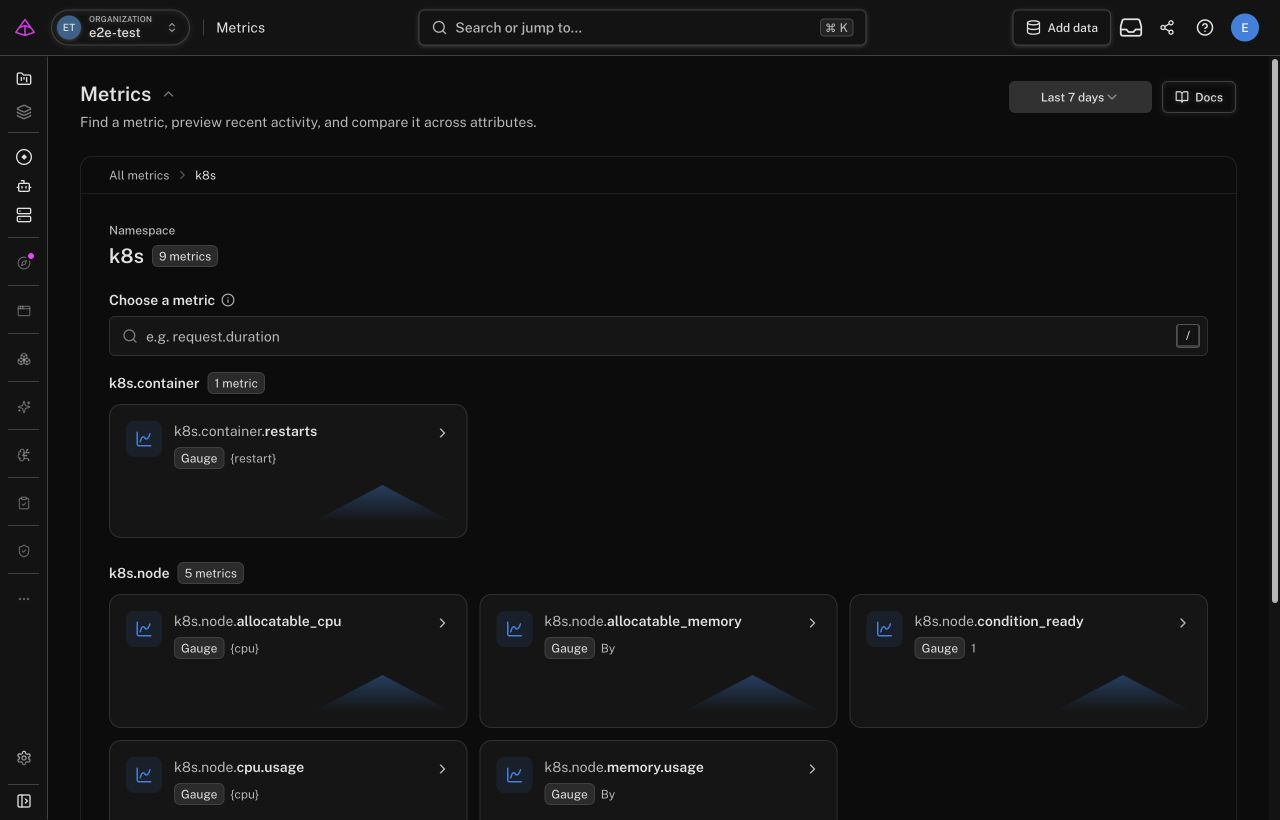
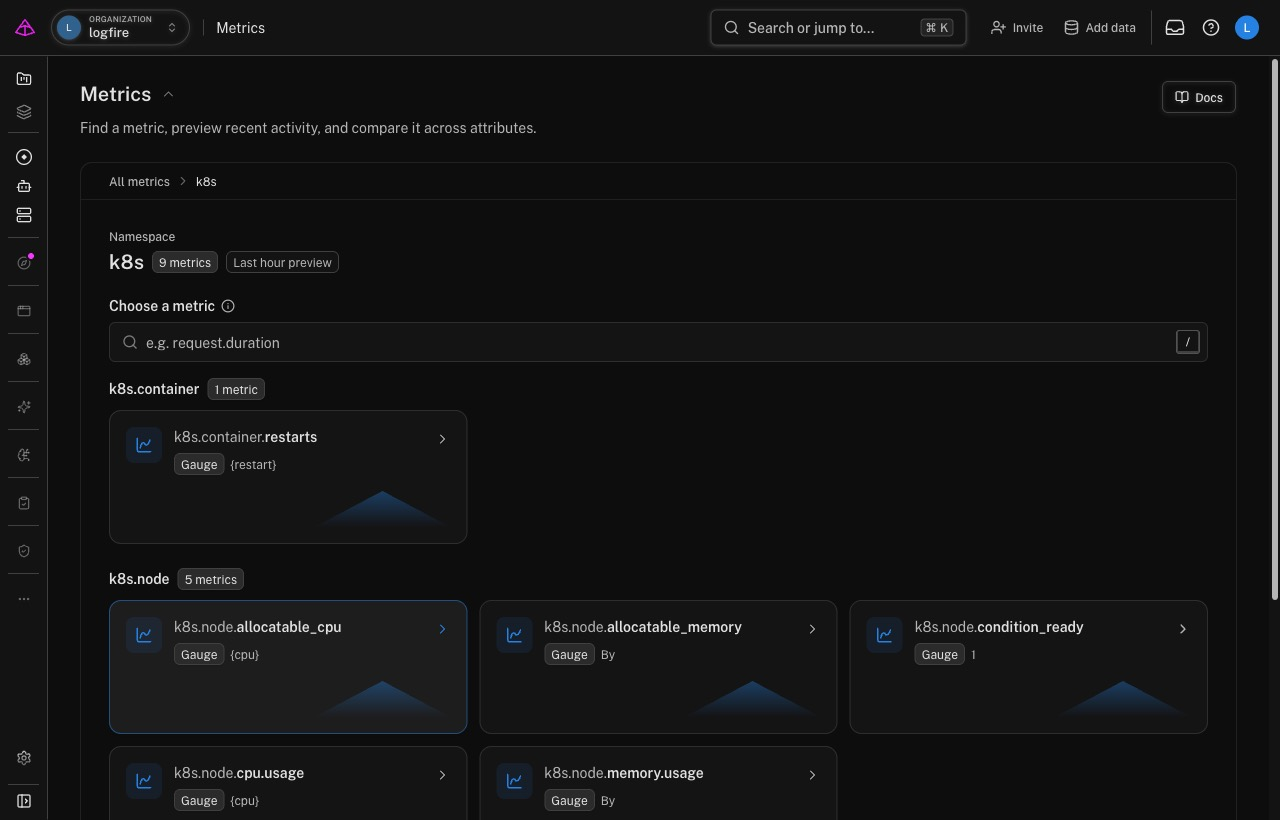
Document Metrics Explorer preview range

diff --git a/docs/guides/web-ui/metrics-explorer.md b/docs/guides/web-ui/metrics-explorer.md
@@ -6,7 +6,7 @@ description: "Use Logfire's Metrics Explorer to search OpenTelemetry metrics, pr
 
 Find and compare the metrics your project receives without writing SQL. A **metric** is a number tracked over time, like requests per second or CPU load. Use the **Metrics Explorer** to search metric names, preview recent activity, and compare values across attributes such as `service.name` or `k8s.node.name`.
 
-Open the <OpenInLogfire path="metrics" variant="inline" label="Metrics Explorer" /> by clicking **Metrics** in the project sidebar. The selected time range controls the metrics, previews, and attributes the page shows.
+Open the <OpenInLogfire path="metrics" variant="inline" label="Metrics Explorer" /> by clicking **Metrics** in the project sidebar. The catalog includes every metric the project has received. **Recently active** and the catalog previews use the last hour. After you open a metric, the time picker controls its chart and attribute comparisons.
 
 ![Metrics Explorer search, recently active metrics, and namespace cards](../../images/metrics/metrics-overview.jpg)
 
@@ -14,19 +14,19 @@ Open the <OpenInLogfire path="metrics" variant="inline" label="Metrics Explorer"
 
 ### Search or browse by namespace
 
-The search box matches both metric names and namespaces. Use **Recently active** to open one of the latest metrics directly, or browse the namespace cards below it.
+The search box matches both metric names and namespaces. Use **Recently active** to open a metric reported within the last hour, or browse the namespace cards below it. Metrics without a recent sample remain searchable.
 
 A **namespace** is the prefix before the first dot in a metric name. `http.server.duration` lives under `http`, `system.cpu.utilization` lives under `system`, and `k8s.pod.cpu.usage` lives under `k8s`. A metric without a dot, such as `requests_total`, appears under **Everything else**. This grouping comes from the metric name and requires no separate configuration.
 
 ### Choose a metric from a namespace
 
-Opening a namespace shows each metric's type, unit, and a small activity preview. Search within the namespace when the list is long. Large namespaces may be divided by the next part of the metric name, such as `k8s.container` and `k8s.node`, so related metrics stay together.
+Opening a namespace shows each metric's type, unit, and a small preview of its last hour. A metric without a recent sample shows **No activity in the last hour** instead. Search within the namespace when the list is long. Large namespaces may be divided by the next part of the metric name, such as `k8s.container` and `k8s.node`, so related metrics stay together.
 
 ![Metrics grouped within the k8s namespace](../../images/metrics/metric-catalog.jpg)
 
 ## Compare a metric across attributes
 
-Opening a metric shows its type, aggregation, chart interval, and overall values. The interval is chosen automatically from the time range. Change the aggregation to switch between calculations such as average, sum, minimum, maximum, or count.
+Opening a metric shows the time picker, type, aggregation, chart interval, and overall values. The interval is chosen automatically from the selected time range. Change the aggregation to switch between calculations such as average, sum, minimum, maximum, or count.
 
 An **attribute** is a piece of context attached to a metric, such as a service, endpoint, or Kubernetes node. The **Break down by an attribute** section previews how the metric differs across each attribute's values. Each card shows a small chart and the number of values found in the selected time range. Attributes that have only one value are listed separately because they do not produce a useful comparison.
 
